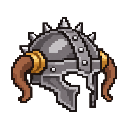
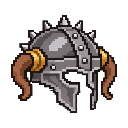
fix: 3種類の兜の顎当てを少し延長 (#124)

Changed region(s): [[0.0625, 0.0938, 0.9375, 0.9062]]

diff --git a/docs/01_ゲーム企画・基本設計書.md b/docs/01_ゲーム企画・基本設計書.md
@@ -15,6 +15,7 @@
 - 着脱版の選択欄は兜単体の画像6種類から選ぶ。「兜なし」は「—」を表示する。人物が着けた姿は大きなプレビューで確認する。
 - 着脱版の保存対象は人物と兜を合成した1086×1708の透過PNG。兜なしも同じキャンバスで、飾りが収まるよう上側に260pxの余白を持つ。
 - 着脱版の金・一本角は、採用した短い角と、銀・角付きに合わせた頭部サイズ・その後の約4%拡大を反映する。黒・赤は鶏冠を高くしたパーツを使う。
+- 着脱版の銀・角付き／金・一本角／黒・赤い鶏冠は、銀・青緑を目安に顎当ての下端を顎先より少し下へ出す。頭部サイズ・角・鶏冠と共通人物は維持する。元の画像切替版は別の全身素材を使う。
 - サイズ比較ページは基準の顔と各兜の顔周りを同じ座標・倍率で並べる。通常表示と元の顔への半透明表示、頭頂・耳側・鼻先・目・顎の基準線のON/OFFを切り替えられる。基準線は表示サイズによらず一定の太さで重ねる。頭頂は髪を含む目安、縦線は元の顔の幅に固定する。
 - 比較対象は着脱版と同じ装備データから取得する。新しい兜を装備データへ追加すると、比較画面にも名前・画像・髪の位置が反映される。通常の合成処理も着脱版と共通にする。比較ページから装備画像を編集する機能は設けない。
 - 画像ごとの腰・足裏の基準を使って表示位置と大きさを調整する。スマートフォンでも操作できる。
@@ -41,6 +42,7 @@
 - 2026-11-20：元の画像切替版を残し、同じレイアウトの装備着脱ページを追加する（#117）。共通人物・低いポニーテール・独立した兜6種類を重ね、合成PNGを保存する。両方式の比較用で、武器・防具は追加しない。型検査・通常/Pages用ビルド、両ページの切替・保存・相互リンク、着脱版の試作との画素一致、首・襟足保持、読込失敗と再試行、速い切替、キーボード・狭い画面・PC下部選択時のプレビューを確認した。
 - 2026-11-20：着脱版の選択画像を、人物の全身から兜単体のサムネイルへ変更した（#119）。人物プレビューと合成PNGの保存内容は維持する。型検査・通常/Pages用ビルド、6枚の表示と余白、全7状態の表示・保存の変更前との一致、元ページの維持、キーボード・390px・相互リンクを確認した。マージ後の公開URLへの反映は未検証。
 - 2026-11-20：調査用の顔と兜の比較画面を公開対象に追加する（#122、調査 #121）。装備データと合成を着脱版と共通化し、将来の兜追加も比較対象へ反映する。型検査・通常/Pages用ビルド、全6候補の通常/半透明表示と調査用画面の画素一致、1280/720/390px幅の全基準線、切替・キーボード・読込失敗/再試行、既存の切替/保存の維持を確認した。一時的な候補追加による両ページへの自動反映も確認し、テストデータは復元済み。公開URLでの確認はマージ後に行う。
+- 2026-11-21：銀・角付き／金・一本角／黒・赤い鶏冠の顎当て下端を、銀・青緑を目安に少し延長する（#124）。独立パーツとサムネイルを更新し、共通の着脱版・比較ページへ反映する。人物と頭部・飾りの大きさ、元の画像切替版は維持する。型検査・通常/Pages用ビルド、局所範囲外の画素一致、全7状態の切替/保存、対象3種の比較表示との一致、基準線・狭い画面を確認した。
 - 戦闘の構想や承認履歴は過去資料とGit履歴に保存する。現行の装備室の制約や次の作業として自動的に引き継がない。将来戦闘を再開する場合は、その時点で参照する。
 
 ## 14. 現在の状態と次の検討
@@ -48,6 +50,7 @@
 - 実装済みは画像切替版の全身画像7枚の切替・保存と、比較用着脱版の兜6種類の合成・着脱・合成PNG保存。画像切替版の追加記録は §12 を参照。両ページの切替・保存と、着脱版の共通人物・首・襟足の保持を確認済み。
 - #119 の兜単体の選択欄は公開済みで、公開URLの動作確認はIssueに記録済み。元の画像切替版と、人物プレビュー・保存内容は維持する。
 - #122 で顔と兜の比較画面を追加する。装備データ・合成処理を共有し、基準線・表示切替・新しい兜の自動反映を確認済み。公開後の確認は対応Issueに残す。
+- #124 で3種類の顎当て下端を調整する。元の顔に重ねた比較・変更範囲・着脱/比較ページ・保存を確認済み。公開URLへの反映はマージ後に確認し、対応Issueへ記録する。
 - 以前の追加と確認の記録は §12 を参照。画像間のドット単位の完全一致と史実の装備構造は未検証。
 - 他のLLMへ渡す [引き継ぎ資料](装備室_引き継ぎ.md) と [依頼テンプレート](装備室_依頼テンプレート.md) を用意済み。
 - #117 で元の画像切替版と別の装備着脱版を用意した。切替・着脱・保存・読込失敗・Pages用ビルドのブラウザ確認は完了し、結果をIssueに記録した。公開配信も確認済みでIssueに記録した。比較後にどちらを主にするかは未決定。
